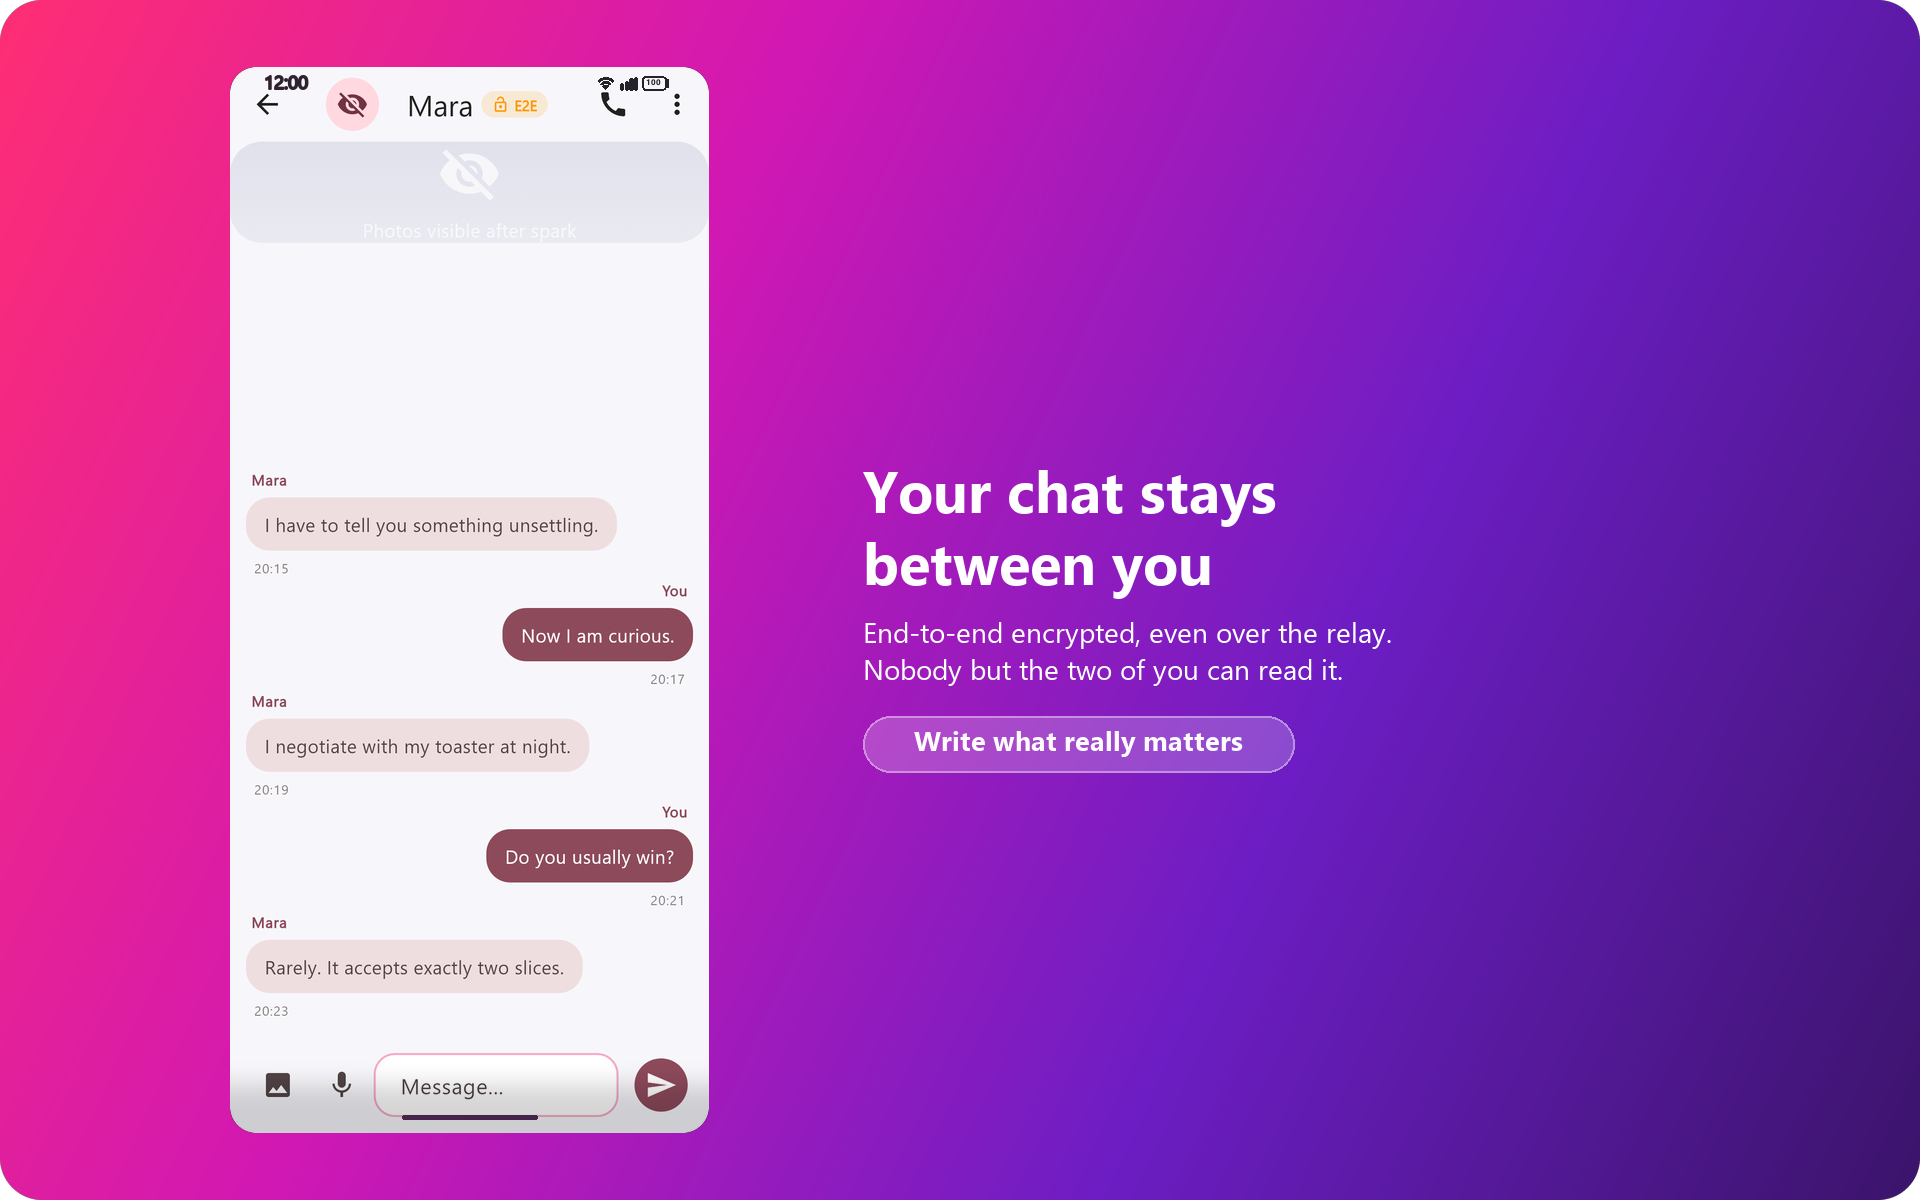
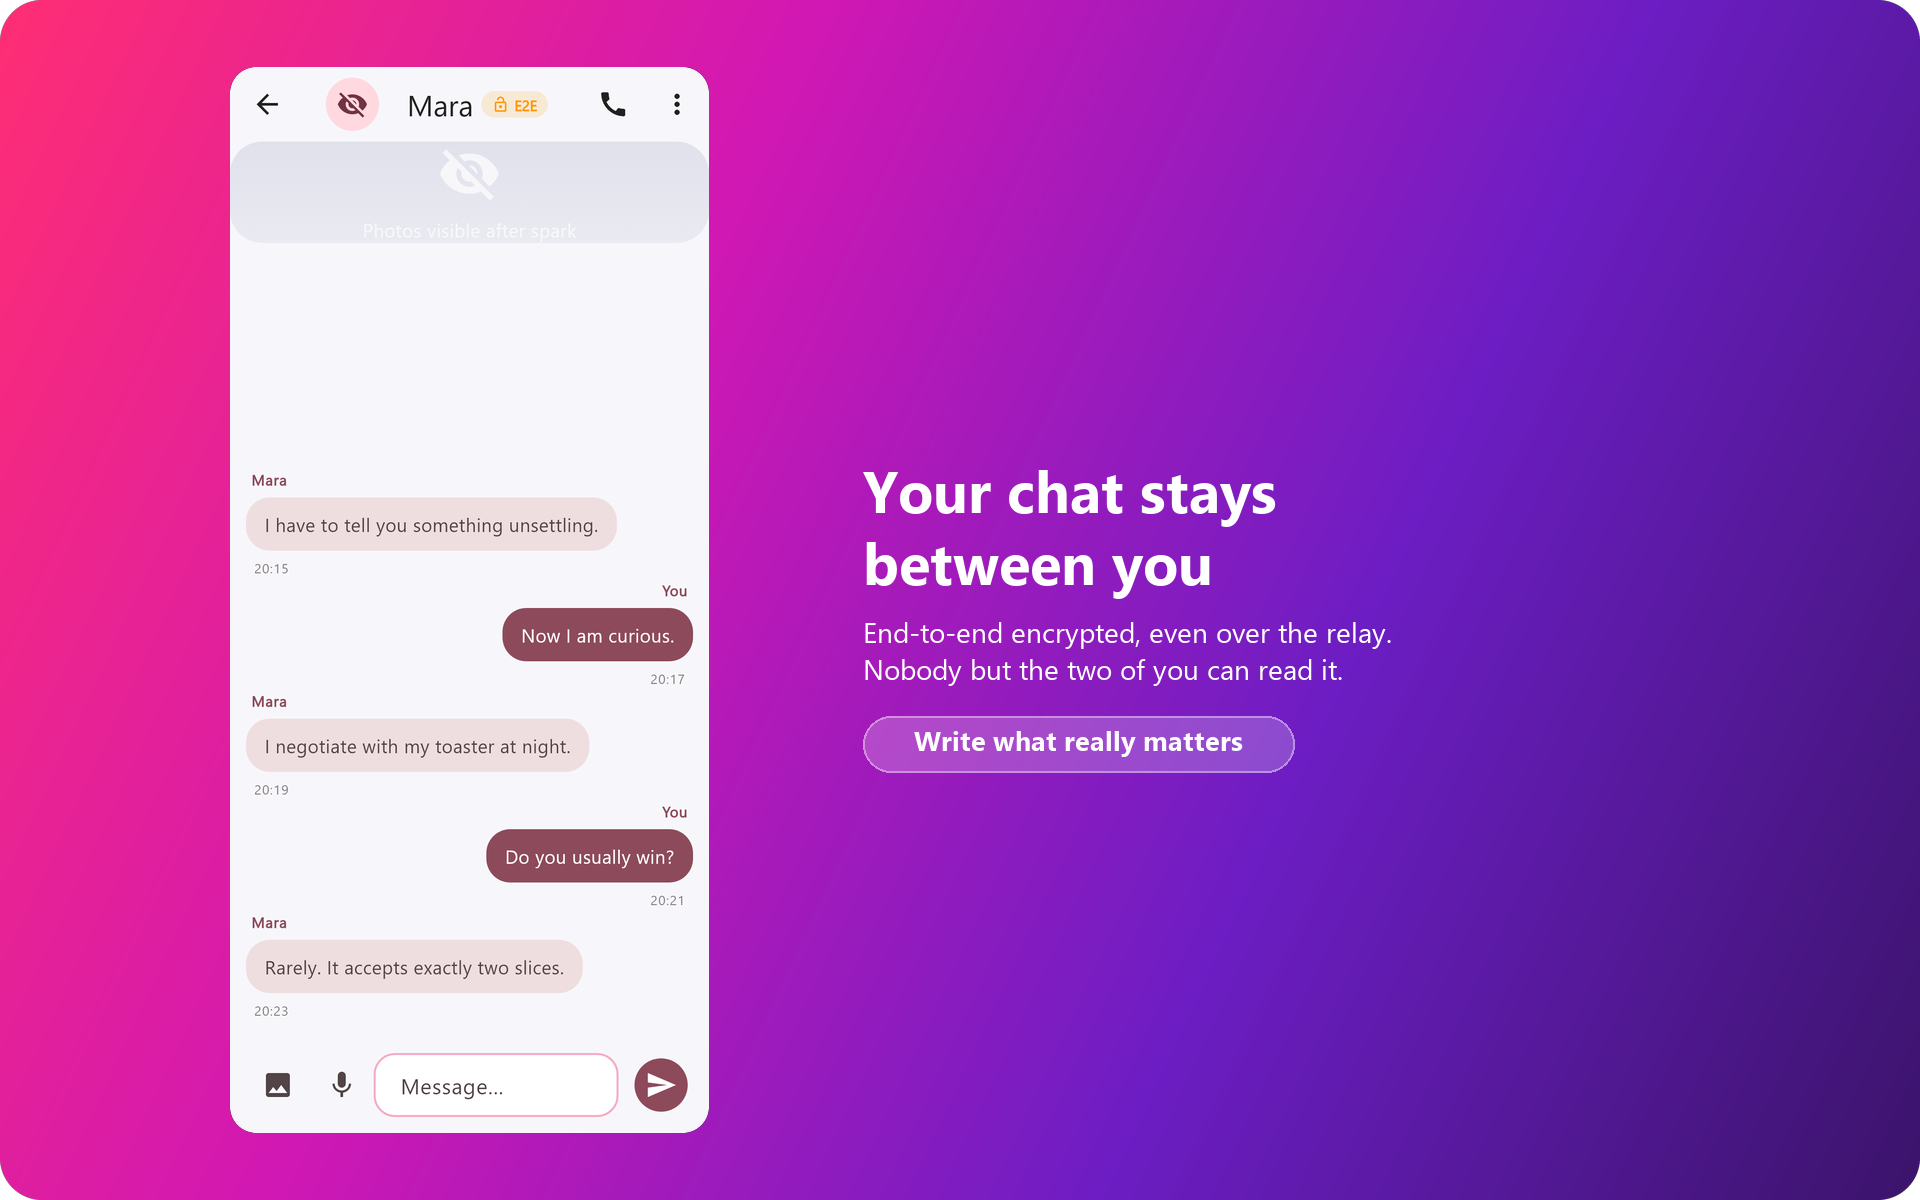
feat(eltern): eigener Screen fuer die Elterneinstellungen + KI-Hinweis auf Website und README
DREI AUFGABEN (04.11.2026):

1) 'Screen fuer die Elterneinstellungen fehlt noch in den Einstellungen'

   Der Bereich 'Kinderschutz & Elternzugriff' lag als grosse Karte
   MITTEN in den Einstellungen - mit PIN-Dialog, Benachrichtigungs-
   Rhythmus und Nutzungszeit. Das hat den Einstellungs-Screen
   zugeballert und den Bereich schwer auffindbar gemacht.

   Jetzt: In den Einstellungen steht ein Eintrag mit dem aktuellen
   Status (keine Freigabe / warte auf Bestaetigung / aktiv), und die
   Einstellungen liegen auf einem eigenen Screen (/guardian-settings),
   weiterhin durch die PIN des Elternteils geschuetzt. Das Freigabe-
   Ende mit 18 bleibt ohne PIN moeglich - das entscheidet der
   Jugendliche selbst.

   Der Inhalt ist das GEMEINSAME Widget GuardianSection (mit
   showTitle) - es gibt keine zweite, abweichende Darstellung.

2) 'Bei den Tablets auch im Kachel Design ohne die Statusleiste'

   Der 7-Zoll-Satz ist wieder die KACHELN-Variante (ohne gemalte
   Statusleiste: kein Uhrzeit, kein WLAN, kein Akku), der 10-Zoll-Satz
   blendet sie ebenfalls aus. Beide Saetze zeigen den Screen
   vollstaendig - es wird nichts abgeschnitten.

3) 'Auf thestia.de und im GitHub Repo in der Readme soll ein Hinweis
    stehen, dass diese App mit kuenstlicher Intelligenz zusammen
    erschaffen wurde'

   Website (DE + EN, im Fuss) und README:
     'Mit Liebe entwickelt - und mit Unterstuetzung kuenstlicher
      Intelligenz.'
     'Made with love - and with some help by AI.'
[…]

Changed region(s): [[0.0938, 0.8942, 0.375, 0.9558], [0.3125, 0.0617, 0.3438, 0.0925], [0.125, 0.0617, 0.1562, 0.0925]]

diff --git a/lib/screens/settings/settings_screen.dart b/lib/screens/settings/settings_screen.dart
@@ -30,14 +30,54 @@ import 'package:thestia/widgets/captcha_challenge.dart';
 import 'package:thestia/services/supabase_service.dart';
 import 'package:thestia/services/unified_push_service.dart';
 import 'package:thestia/utils/age_safety_rules.dart';
+import 'package:thestia/models/guardian_status.dart';
+import 'package:thestia/providers/guardian_provider.dart';
 import 'package:thestia/widgets/appearance_selector.dart';
 import 'package:thestia/widgets/buttons.dart';
 import 'package:thestia/widgets/chat_background_picker.dart';
-import 'package:thestia/widgets/guardian_section.dart';
 import 'package:thestia/widgets/privacy_section.dart';
 import 'package:thestia/l10n/app_strings.dart';
 import 'package:thestia/widgets/language_switch.dart';
 import 'package:thestia/widgets/theme_picker.dart';
+
+/// Der Eintrag "Kinderschutz & Elternzugriff" in den Einstellungen.
+///
+/// Zeigt den aktuellen Stand in einem Satz und oeffnet den Eltern-
+/// bereich (eigener Screen). Der Inhalt dort ist das gemeinsame Widget
+/// `GuardianSection` - es gibt keine zweite, abweichende Darstellung.
+class _GuardianSettingsEntry extends ConsumerWidget {
+  const _GuardianSettingsEntry();
+
+  /// Der Stand in einem Satz - ohne Zahlen, ohne Geheimnis.
+  String _status(BuildContext context, GuardianStatus status) {
+    if (status.isUnknown) return L10n.t(context, 'common.loading');
+    if (!status.hasConsent) return L10n.t(context, 'guardian.noConsentTitle');
+    if (status.isPending) return L10n.t(context, 'guardian.pendingTitle');
+    return L10n.t(context, 'guardian.activeTitle');
+  }
+
+  @override
+  Widget build(BuildContext context, WidgetRef ref) {
+    final status = ref.watch(guardianProvider);
+    return Column(
+      crossAxisAlignment: CrossAxisAlignment.start,
+      mainAxisSize: MainAxisSize.min,
+      children: [
+        PrivacySectionTitle(L10n.t(context, 'guardian.sectionTitle')),
+        const SizedBox(height: 8),
+        Card(
+          child: ListTile(
+            leading: const Icon(Icons.family_restroom),
+            title: Text(L10n.t(context, 'guardian.pinTitle')),
+            subtitle: Text(_status(context, status)),
+            trailing: const Icon(Icons.chevron_right),
+            onTap: () => context.push(AppRoutes.guardianSettings),
+          ),
+        ),
+      ],
+    );
+  }
+}
 
 /// Spiegelt den Rest der UI-Einstellungen nach profiles.ui_prefs (v0.8.0,
 /// Migration 074) - damit überstehen Blind Mode, Sichtbarkeit, Dark Mode
@@ -114,7 +154,15 @@ class SettingsScreen extends ConsumerWidget {
           // Kinderschutz & Elternzugriff (v0.10.0). Sichtbar fuer alle:
           // wer mit 18 geworden ist, hat die Freigabe aus der Zeit mit
           // 16/17 noch und entscheidet hier ueber ihr Ende.
-          const GuardianSection(),
+          //
+          // Die Einstellungen selbst liegen in einem EIGENEN Screen
+          // (04.11.2026): hier stand der komplette Bereich mit
+          // PIN-Dialog, Rhythmus und Nutzungszeit als grosse Karte
+          // zwischen Datenschutz und Community-Regeln - der
+          // Einstellungs-Screen war zugeballert und der Bereich schwer
+          // auffindbar. Hier steht der Eintrag mit dem aktuellen
+          // Status, der Weg fuehrt in den Elternbereich.
+          const _GuardianSettingsEntry(),
           _SectionTitle(L10n.t(context, 'settings.communitySafety')),
           Card(
             child: Padding(

diff --git a/lib/screens/guardian/guardian_settings_screen.dart b/lib/screens/guardian/guardian_settings_screen.dart
@@ -1,0 +1,43 @@
+import 'package:flutter/material.dart';
+import 'package:flutter_riverpod/flutter_riverpod.dart';
+
+import 'package:thestia/l10n/app_strings.dart';
+import 'package:thestia/widgets/guardian_section.dart';
+
+/// Der eigene Screen fuer die Elterneinstellungen.
+///
+/// WARUM EIN EIGENER SCREEN (04.11.2026): Im Einstellungs-Screen lag
+/// der ganze Bereich "Kinderschutz & Elternzugriff" als eine grosse
+/// Karte zwischen Datenschutz und Community-Regeln - mit PIN-Dialog,
+/// Benachrichtigungs-Rhythmus und Nutzungszeit. Das hat den
+/// Einstellungs-Screen zugeballert und den Bereich schlecht auffindbar
+/// gemacht.
+///
+/// Jetzt: In den Einstellungen steht ein Eintrag mit dem aktuellen
+/// Status, und die eigentlichen Einstellungen liegen hier - weiterhin
+/// durch die PIN des Elternteils geschuetzt. Wer die Freigabe
+/// beendet (mit 18), findet den Weg weiterhin ohne PIN, denn das ist
+/// eine Entscheidung des Jugendlichen selbst.
+///
+/// Der Inhalt ist das bewusst GEMEINSAME Widget [GuardianSection] -
+/// kein zweiter Aufbau. Das Widget rendert je nach Zustand den Status
+/// (keine Freigabe / wartet / aktiv) und die Einstellungen; im
+/// Einstellungs-Screen steht davon nur die Statuszeile.
+class GuardianSettingsScreen extends ConsumerWidget {
+  const GuardianSettingsScreen({super.key});
+
+  @override
+  Widget build(BuildContext context, WidgetRef ref) {
+    return Scaffold(
+      appBar: AppBar(
+        title: Text(L10n.t(context, 'guardian.sectionTitle')),
+      ),
+      body: ListView(
+        padding: const EdgeInsets.all(16),
+        children: const [
+          GuardianSection(showTitle: false),
+        ],
+      ),
+    );
+  }
+}

diff --git a/test/guardian_settings_screen_test.dart b/test/guardian_settings_screen_test.dart
@@ -1,0 +1,49 @@
+import 'package:flutter/material.dart';
+import 'package:flutter_riverpod/flutter_riverpod.dart';
+import 'package:flutter_test/flutter_test.dart';
+
+import 'package:thestia/l10n/app_strings.dart';
+import 'package:thestia/routing/app_router.dart';
+import 'package:thestia/screens/guardian/guardian_settings_screen.dart';
+
+/// Der eigene Screen fuer die Elterneinstellungen (04.11.2026).
+///
+/// BISHER lage der Bereich "Kinderschutz & Elternzugriff" als grosse
+/// Karte IN den Einstellungen, dazwischen zwischen Datenschutz und
+/// Community-Regeln. Der Einstellungs-Screen war dadurch zugeballert.
+void main() {
+  testWidgets('der Screen zeigt den Titel im Kopf', (tester) async {
+    await tester.pumpWidget(
+      const ProviderScope(
+        child: MaterialApp(
+          home: GuardianSettingsScreen(),
+        ),
+      ),
+    );
+    await tester.pump();
+
+    expect(find.text(L10n.tWithoutContext('guardian.sectionTitle')),
+        findsOneWidget);
+  });
+
+  testWidgets('der Screen zeigt den Elternbereich (das gemeinsame Widget)',
+      (tester) async {
+    await tester.pumpWidget(
+      const ProviderScope(
+        child: MaterialApp(
+          home: GuardianSettingsScreen(),
+        ),
+      ),
+    );
+    await tester.pump();
+
+    // Der Abschnitt selbst kommt aus dem gemeinsamen Widget - es gibt
+    // keine zweite, abweichende Darstellung.
+    expect(find.text(L10n.tWithoutContext('guardian.sectionIntro')),
+        findsOneWidget);
+  });
+
+  test('die Route ist registriert', () {
+    expect(AppRoutes.guardianSettings, '/guardian-settings');
+  });
+}

diff --git a/lib/routing/app_router.dart b/lib/routing/app_router.dart
@@ -20,6 +20,7 @@ import 'package:thestia/screens/auth/unban_request_screen.dart';
 import 'package:thestia/screens/auth/email_verification_screen.dart';
 import 'package:thestia/screens/guardian/guardian_consent_screen.dart';
 import 'package:thestia/screens/privacy/delete_data_screen.dart';
+import 'package:thestia/screens/guardian/guardian_settings_screen.dart';
 import 'package:thestia/screens/guardian/guardian_transition_screen.dart';
 import 'package:thestia/screens/auth/mfa_setup_screen.dart';
 import 'package:thestia/screens/auth/mfa_challenge_screen.dart';
@@ -83,6 +84,9 @@ class AppRoutes {
 
   /// Entscheidung ueber den Elternzugriff mit 18.
   static const String guardianTransition = '/guardian-transition';
+
+  /// Die Elterneinstellungen (PIN-geschuetzt) - eigener Screen.
+  static const String guardianSettings = '/guardian-settings';
   static const String onboarding = '/onboarding';
   static const String login = '/login';
   static const String forgotPassword = '/forgot-password';
@@ -659,6 +663,11 @@ GoRouter createRouter(Ref ref) {
       GoRoute(
         path: AppRoutes.guardianTransition,
         builder: (context, state) => const GuardianTransitionScreen(),
+      ),
+      // Die Elterneinstellungen als eigener Screen (04.11.2026).
+      GoRoute(
+        path: AppRoutes.guardianSettings,
+        builder: (context, state) => const GuardianSettingsScreen(),
       ),
       GoRoute(
         path: AppRoutes.login,

diff --git a/lib/widgets/guardian_section.dart b/lib/widgets/guardian_section.dart
@@ -21,7 +21,11 @@ import 'package:thestia/widgets/privacy_section.dart';
 /// die PIN als Weg zur Aenderung, nicht als Schutz vor dem Jugendlichen:
 /// er kennt sie nicht, der Elternteil schon.
 class GuardianSection extends ConsumerStatefulWidget {
-  const GuardianSection({super.key});
+  const GuardianSection({super.key, this.showTitle = true});
+
+  /// Der Titel wird im eigenen Screen in der AppBar gezeigt - dort
+  /// waere er doppelt.
+  final bool showTitle;
 
   @override
   ConsumerState<GuardianSection> createState() => _GuardianSectionState();
@@ -179,7 +183,9 @@ class _GuardianSectionState extends ConsumerState<GuardianSection> {
       crossAxisAlignment: CrossAxisAlignment.start,
       mainAxisSize: MainAxisSize.min,
       children: [
-        PrivacySectionTitle(L10n.t(context, 'guardian.sectionTitle')),
+        if (widget.showTitle)
+          PrivacySectionTitle(L10n.t(context, 'guardian.sectionTitle')),
+        if (widget.showTitle) const SizedBox(height: 8),
         Card(
           child: Padding(
             padding: const EdgeInsets.all(16),

diff --git a/passkey-assets/index.html b/passkey-assets/index.html
@@ -926,6 +926,7 @@
     <div class="held-fuss">
       <p>Thestia ist ein Open-Source-Projekt unter der GNU Affero General Public License 3.0. Der Quellcode liegt auf <a href="https://github.com/Toterboy/Thestia">GitHub</a> - Contributions sind willkommen.</p>
       <p>Der Sicherheitscheck der App l&auml;uft unter <a href="https://auth.thestia.de/">auth.thestia.de</a>.</p>
+      <p>Mit Liebe entwickelt &ndash; und mit Unterst&uuml;tzung k&uuml;nstlicher Intelligenz.</p>
     </div>
   </div>
 

diff --git a/passkey-assets/en/index.html b/passkey-assets/en/index.html
@@ -928,6 +928,7 @@
     <div class="held-fuss">
       <p>Thestia is an open source project under the GNU Affero General Public License 3.0. The source code is on <a href="https://github.com/Toterboy/Thestia">GitHub</a> - contributions are welcome.</p>
       <p>The app's security check runs at <a href="https://auth.thestia.de/">auth.thestia.de</a>.</p>
+      <p>Made with love &ndash; and with some help by AI.</p>
     </div>
   </div>
 

diff --git a/tool/make_tablet_screenshots.py b/tool/make_tablet_screenshots.py
@@ -112,7 +112,8 @@ def _komponiere_10zoll(comp, profil, name, headline, subline, badge, dunkel):
         return comp.compose_landscape(shot, headline, subline, badge,
                                        dark=False, W=GROSSE_10[0],
                                        H=GROSSE_10[1],
-                                       split=(-30.3, 0.5, 0.45))
+                                       split=(-30.3, 0.5, 0.45),
+                                       system_ui=False)
 
     # Kacheln aus dem Dart-Export, wenn es sie gibt.
     cards = comp.load_cards(comp.QUELLE.get(name, name),
@@ -133,7 +134,8 @@ def _komponiere_10zoll(comp, profil, name, headline, subline, badge, dunkel):
     quelle = profil['src'] / ('%s.png' % comp.QUELLE.get(name, name))
     shot = Image.open(quelle).convert('RGB')
     return comp.compose_landscape(shot, headline, subline, badge, dark=dunkel,
-                                   W=GROSSE_10[0], H=GROSSE_10[1])
+                                   W=GROSSE_10[0], H=GROSSE_10[1],
+                                   system_ui=False)
 
 
 def main() -> int:
@@ -160,7 +162,10 @@ def main() -> int:
         # das ist auch in Ordnung: die App hat kein Tablet-Layout, und
         # ein erfundenes waere eine falsche Darstellung.
         # ------------------------------------------------------------------
-        kacheln = profil['out_9x16']
+        # Die KACHELN (ohne nachgeahmte Statusleiste) - so sollen die
+        # Tablet-Bilder aussehen (NUTZERWUNSCH 04.11.2026: "Bei den
+        # Tablets auch im Kachel Design ohne die Statusleiste").
+        kacheln = profil['out_9x16_kacheln']
         if not kacheln.is_dir():
             print('  %s 7 Zoll: %s fehlt - erst '
                   'python tool/make_store_screenshots.py'

diff --git a/tool/make_store_screenshots.py b/tool/make_store_screenshots.py
@@ -2349,7 +2349,7 @@ def _quer_raster(W: int, H: int):
 
 def compose_landscape(shot: Image.Image, headline: str, subline: str,
                       badge: str, dark: bool = False, W: int = 1920,
-                      H: int = 1200, split=None):
+                      H: int = 1200, split=None, system_ui: bool = True):
     """QUERFORMAT: der volle App-Screen links, der Text rechts.
 
     FUER DAS 10-ZOLL-TABLET (04.11.2026).
@@ -2388,8 +2388,25 @@ def compose_landscape(shot: Image.Image, headline: str, subline: str,
         shot = shot.convert('RGBA')
 
     # Der Screen in der festen Spalte, mittig zur Hoehe.
+    #
+    # system_ui=False blendet die gezeichnete Statusleiste aus (Uhrzeit,
+    # WLAN, Akku, Gestenlinie). Das ist das KACHEL-Design: der
+    # App-Screen als Kachel auf dem Verlauf, ohne nachgeahmte
+    # Systemleiste - so wie es die Tablet-Bilder zeigen sollen. Der
+    # Screen selbst wird NICHT geschnitten (es fehlt nichts).
     box_h = H - 2 * margin
-    scr = app_tile(shot, box_h, spalte_w, corner_ratio=0.055, split=split)
+    if system_ui:
+        scr = app_tile(shot, box_h, spalte_w, corner_ratio=0.055,
+                       split=split)
+    else:
+        global OMIT_SYSTEM_UI
+        vorher = OMIT_SYSTEM_UI
+        OMIT_SYSTEM_UI = True
+        try:
+            scr = app_tile(shot, box_h, spalte_w, corner_ratio=0.055,
+                           split=split)
+        finally:
+            OMIT_SYSTEM_UI = vorher
     tw, th = scr.size
     bg.alpha_composite(scr, (spalte_x, (H - th) // 2))
 

diff --git a/README.md b/README.md
@@ -13,6 +13,15 @@ Das Projekt ist vollständig kostenlos nutzbar und soll eine echte Alternative z
 Tinder & Co. darstellen. Es befindet sich in aktiver Entwicklung und ist noch
 nicht vollständig funktional. Beiträge und Feedback sind willkommen.
 
+> **Mit Liebe entwickelt – und mit Unterstützung künstlicher Intelligenz.**
+> Thestia wurde von einem Menschen mit Hilfe von KI-Modellen entwickelt:
+> vom ersten Architektur-Entwurf über Code, Tests und Bildschirmfotos bis zu
+> Datenschutzerklärung und Bedrohungsschutz. Was die App kann und wie sie
+> tickt, hat ein Mensch entschieden – die KI hat Code geschrieben, nicht
+> Verantwortung übernommen. Jede Zeile ist im [Quellcode](https://github.com/Toterboy/Thestia)
+> nachprüfbar, jede Entscheidung im [Roadmap](ROADMAP.md) begründet.
+> *Made with love – and with some help by AI.*
+
 > **Umbenannt:** Aus **WispDating** wurde **Thestia** (ab v0.9.1, Build 29).
 > Neuer Name, neues Logo, neue App-ID (`com.thestia.app`) – **bitte neu
 > installieren**, die alte App aktualisiert sich nicht von selbst. Konto und

diff --git a/CHANGELOG.md b/CHANGELOG.md
@@ -11,6 +11,15 @@ können sich Schnittstellen und Verhalten jederzeit ändern.
 
 ### Hinzugefügt
 
+- **Eigener Screen für die Elterneinstellungen:** Der Bereich „Kinderschutz &
+  Elternzugriff" lag als große Karte mitten in den Einstellungen (mit
+  PIN-Dialog, Benachrichtigungs-Rhythmus und Nutzungszeit) und hat den
+  Einstellungs-Screen zugeballert. Jetzt steht dort ein Eintrag mit dem
+  aktuellen Status; die Einstellungen selbst liegen auf einem eigenen
+  Screen (`/guardian-settings`), weiterhin durch die PIN des
+  Elternteils geschützt. Das Freigabe-Ende mit 18 bleibt ohne PIN
+  möglich – das entscheidet der Jugendliche selbst.
+
 - **Drei-Schritte-Leitfaden für die Audio-Vorstellung** (03.11.2026):
   Während der Aufnahme begleitet die App die Vorstellung mit drei
   Winkeln in fester Reihenfolge: „Wer bist du?", „Was macht dich
